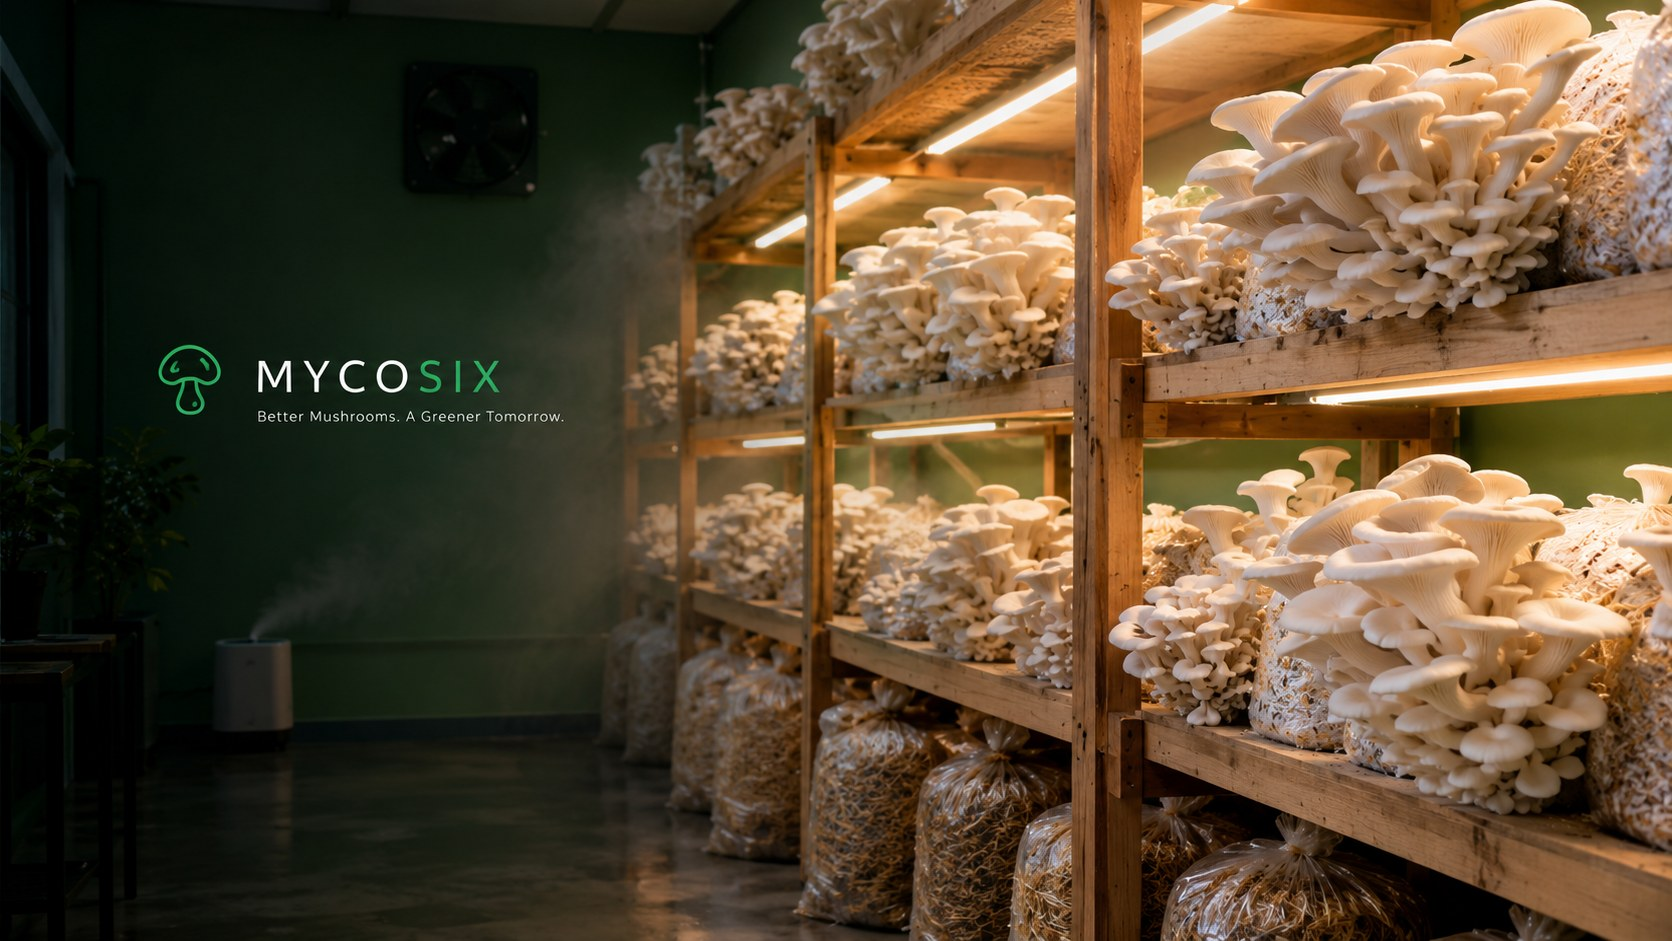
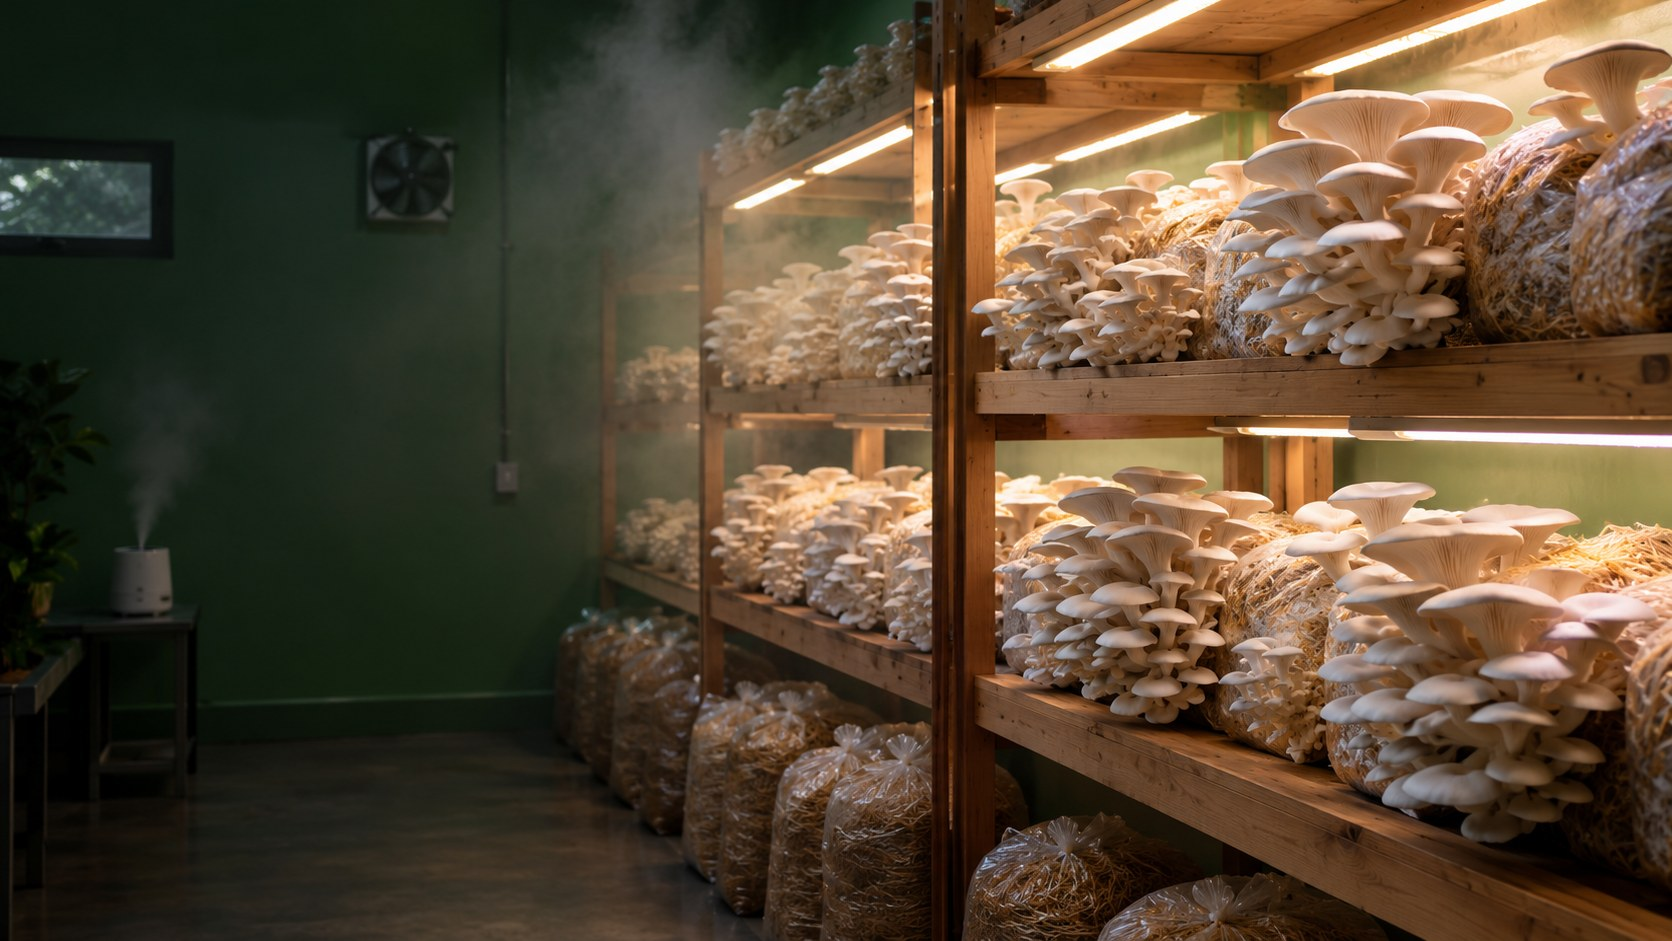
Real MYCOSIX seal in header + fresh text-free shelf photo + Mysore service area
- Top-bar/drawer wordmark now carries the real MYCOSIX brand seal
  (assets/brand/mycosix-tile.webp) instead of the generic painted mushroom.
- Replaced the shelf photo with the owner's new text-free image (regenerated
  shelf.jpg from their shelf.png; original archived under source-images/).
- Service area copy now Mysore, Karnataka (was Hyderabad) in MxConfig and
  README; live siteConfig/public serviceArea aligned to the same string.

diff --git a/lib/widgets/brand.dart b/lib/widgets/brand.dart
@@ -2,7 +2,9 @@ import 'package:flutter/material.dart';
 
 import '../config/mx_colors.dart';
 
-/// The MYCOSIX wordmark. A plain brand lockup with no hidden gestures.
+/// The MYCOSIX wordmark, marked with the real MYCOSIX brand seal (the same
+/// cream-tile emblem used by the app icon and footer) instead of a generic
+/// mushroom glyph.
 class MxLogo extends StatelessWidget {
   const MxLogo({
     super.key,
@@ -21,8 +23,14 @@ class MxLogo extends StatelessWidget {
     return Row(
       mainAxisSize: MainAxisSize.min,
       children: [
-        _Mark(size: size * 0.9, dark: dark),
-        SizedBox(width: size * 0.5),
+        Image.asset(
+          'assets/brand/mycosix-tile.webp',
+          width: size,
+          height: size,
+          fit: BoxFit.cover,
+          filterQuality: FilterQuality.medium,
+        ),
+        SizedBox(width: size * 0.45),
         Column(
           crossAxisAlignment: CrossAxisAlignment.start,
           mainAxisSize: MainAxisSize.min,
@@ -59,63 +67,4 @@ class MxLogo extends StatelessWidget {
       ],
     );
   }
-}
-
-/// A small mushroom-cap mark.
-class _Mark extends StatelessWidget {
-  const _Mark({required this.size, required this.dark});
-
-  final double size;
-  final bool dark;
-
-  @override
-  Widget build(BuildContext context) {
-    return CustomPaint(
-      size: Size(size, size),
-      painter: _MarkPainter(dark: dark),
-    );
-  }
-}
-
-class _MarkPainter extends CustomPainter {
-  _MarkPainter({required this.dark});
-
-  final bool dark;
-
-  @override
-  void paint(Canvas canvas, Size size) {
-    final s = size.width;
-    final cap = Paint()..color = dark ? MxColors.mossSoft : MxColors.moss;
-    final rim = Paint()
-      ..color = dark
-          ? MxColors.mossSoft.withValues(alpha: 0.6)
-          : MxColors.forest;
-    final stem = Paint()..color = dark ? MxColors.mossSoft : MxColors.earth;
-
-    // cap (fan)
-    final capPath = Path()
-      ..moveTo(s * 0.5, s * 0.14)
-      ..quadraticBezierTo(s * 0.92, s * 0.2, s * 0.9, s * 0.56)
-      ..quadraticBezierTo(s * 0.78, s * 0.5, s * 0.68, s * 0.54)
-      ..quadraticBezierTo(s * 0.56, s * 0.62, s * 0.5, s * 0.62)
-      ..quadraticBezierTo(s * 0.44, s * 0.62, s * 0.32, s * 0.54)
-      ..quadraticBezierTo(s * 0.22, s * 0.5, s * 0.1, s * 0.56)
-      ..quadraticBezierTo(s * 0.08, s * 0.2, s * 0.5, s * 0.14)
-      ..close();
-    canvas.drawPath(capPath, cap);
-    canvas.drawPath(capPath, rim..style = PaintingStyle.stroke);
-
-    // stem
-    canvas.drawRRect(
-      RRect.fromRectAndRadius(
-        Rect.fromLTWH(s * 0.42, s * 0.56, s * 0.16, s * 0.34),
-        Radius.circular(s * 0.08),
-      ),
-      stem,
-    );
-  }
-
-  @override
-  bool shouldRepaint(covariant _MarkPainter oldDelegate) =>
-      oldDelegate.dark != dark;
 }

diff --git a/lib/config/mx_config.dart b/lib/config/mx_config.dart
@@ -44,5 +44,5 @@ class MxConfig {
 
   /// Delivery service area shown in site copy (footer, product pages). This is
   /// the business's call — edit here when the delivery footprint changes.
-  static const serviceArea = 'Hyderabad';
+  static const serviceArea = 'Mysore, Karnataka';
 }

diff --git a/README.md b/README.md
@@ -1,7 +1,7 @@
 # MYCOSIX Mushrooms
 
 Premium e-commerce website for **MYCOSIX**, a student oyster-mushroom farm
-(six growers) delivering fresh, farm-grown mushrooms around Hyderabad. Built
+(six growers) delivering fresh, farm-grown mushrooms around Mysore, Karnataka. Built
 with Flutter Web.
 
 - Live site: https://mycosix.web.app
